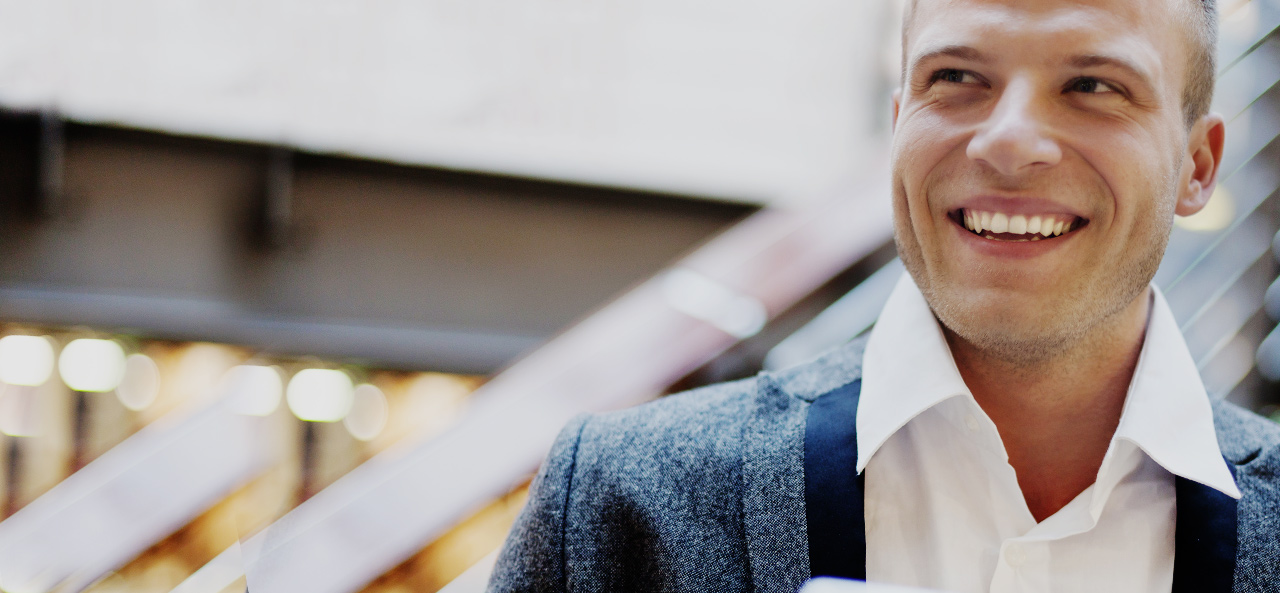
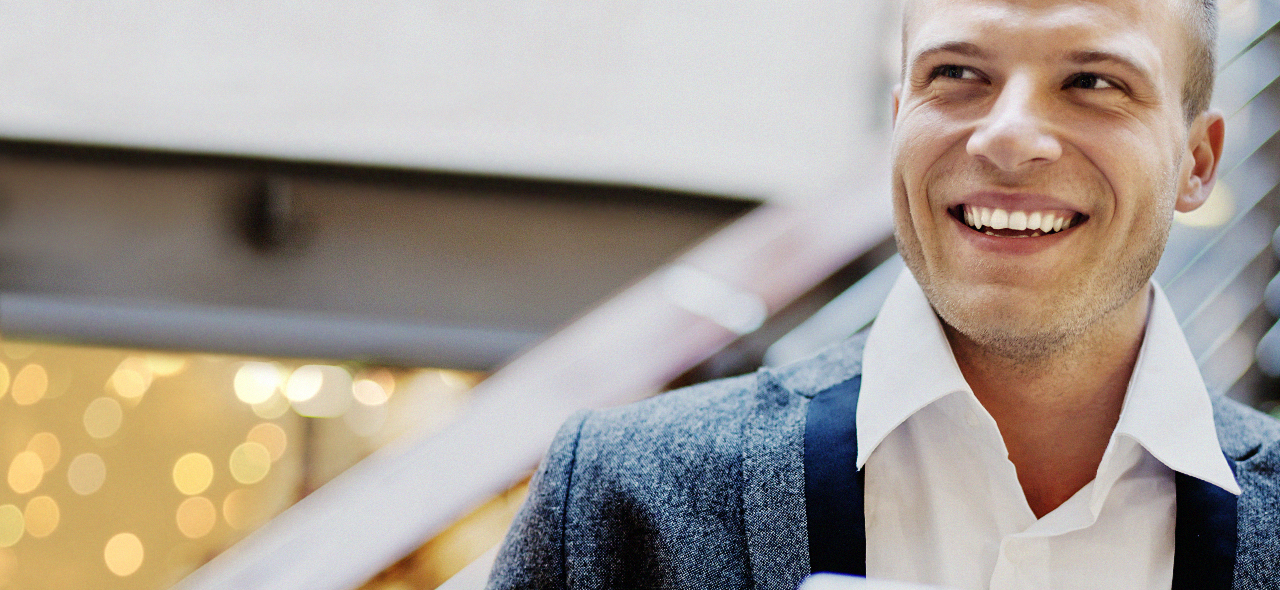
:sparkles: :art: (app/blocks/slider, app/blocks/slide, app/resources/images) Update slide' picture, Add minor changes to slider

diff --git a/app/blocks/slide/slide.scss b/app/blocks/slide/slide.scss
@@ -22,7 +22,7 @@
 		min-height: 55px;
 
 		@media #{$desktop} {
-			min-height: 593px;
+			min-height: 590px;
 		}
 		background-image: url("../images/slide__slider.jpg");
 
